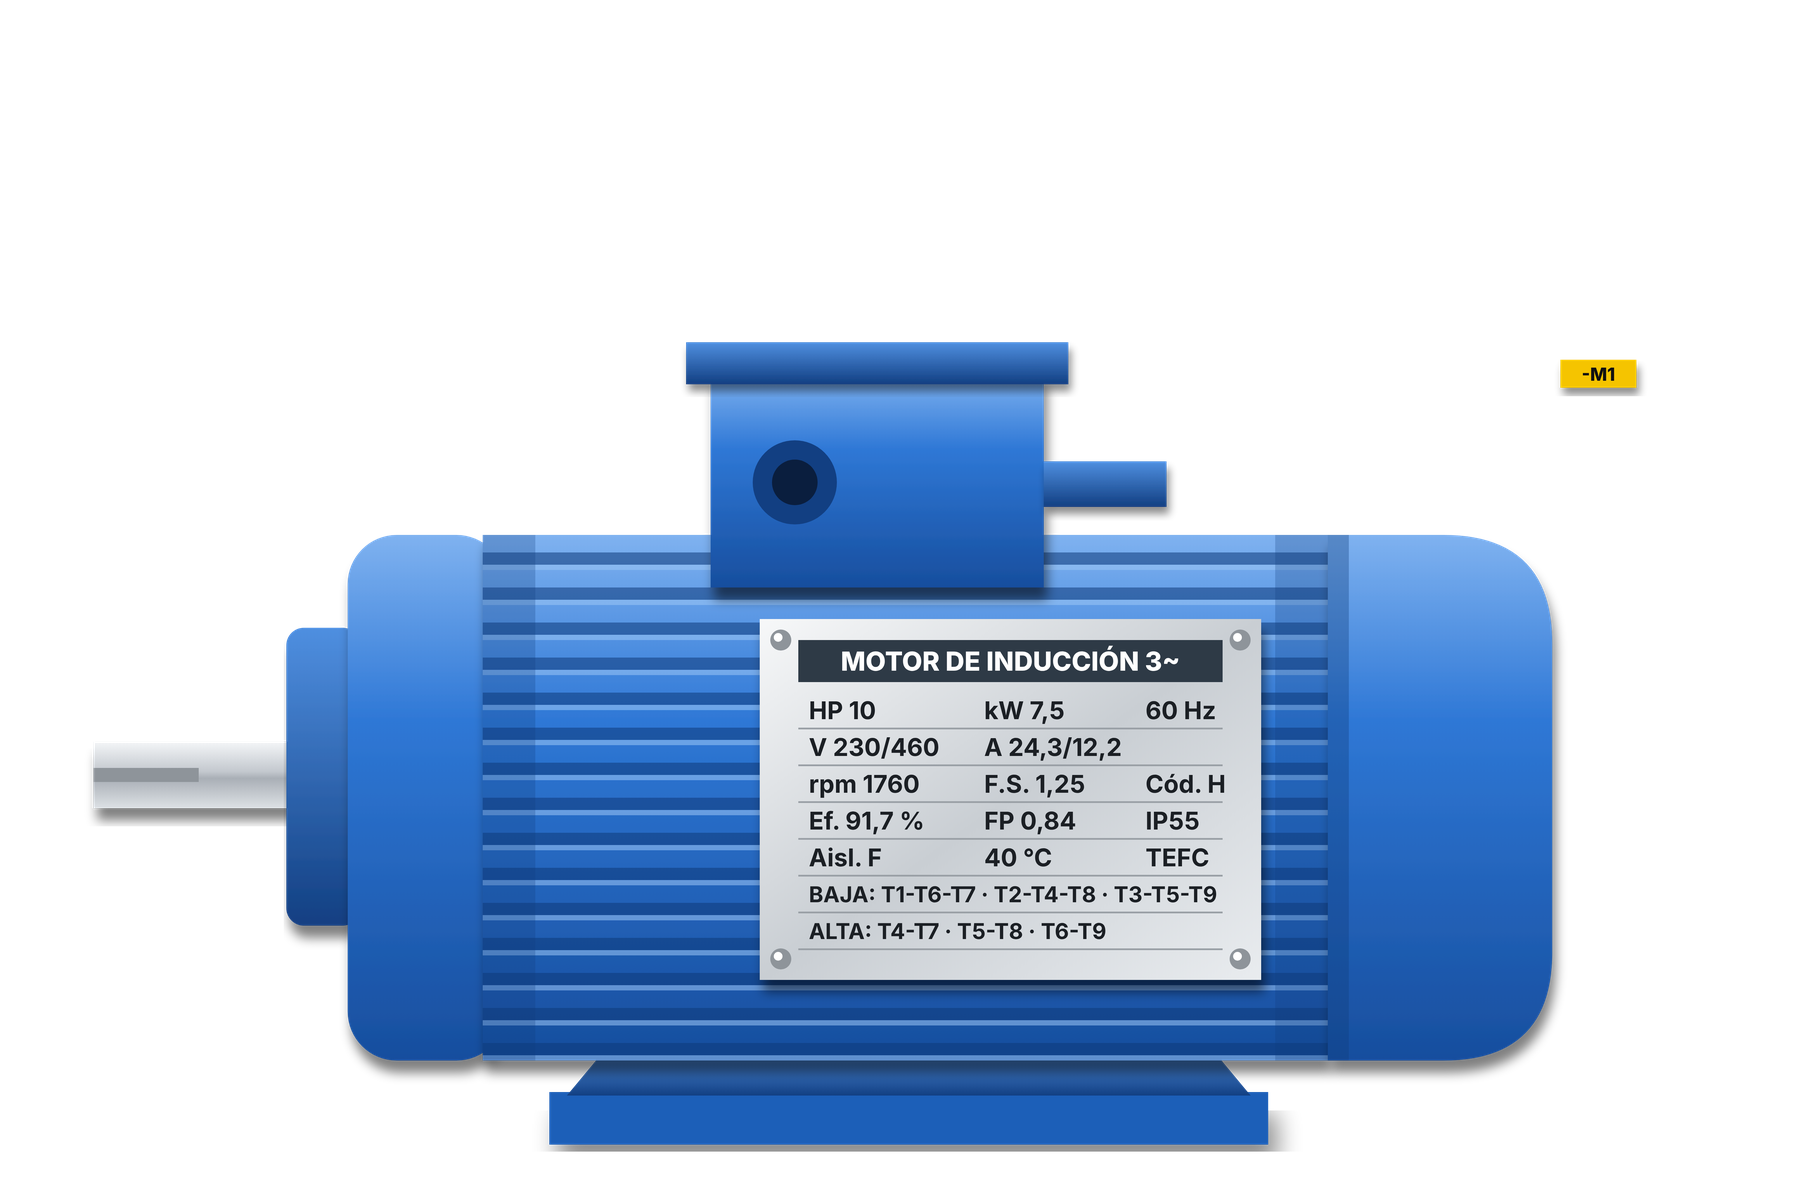
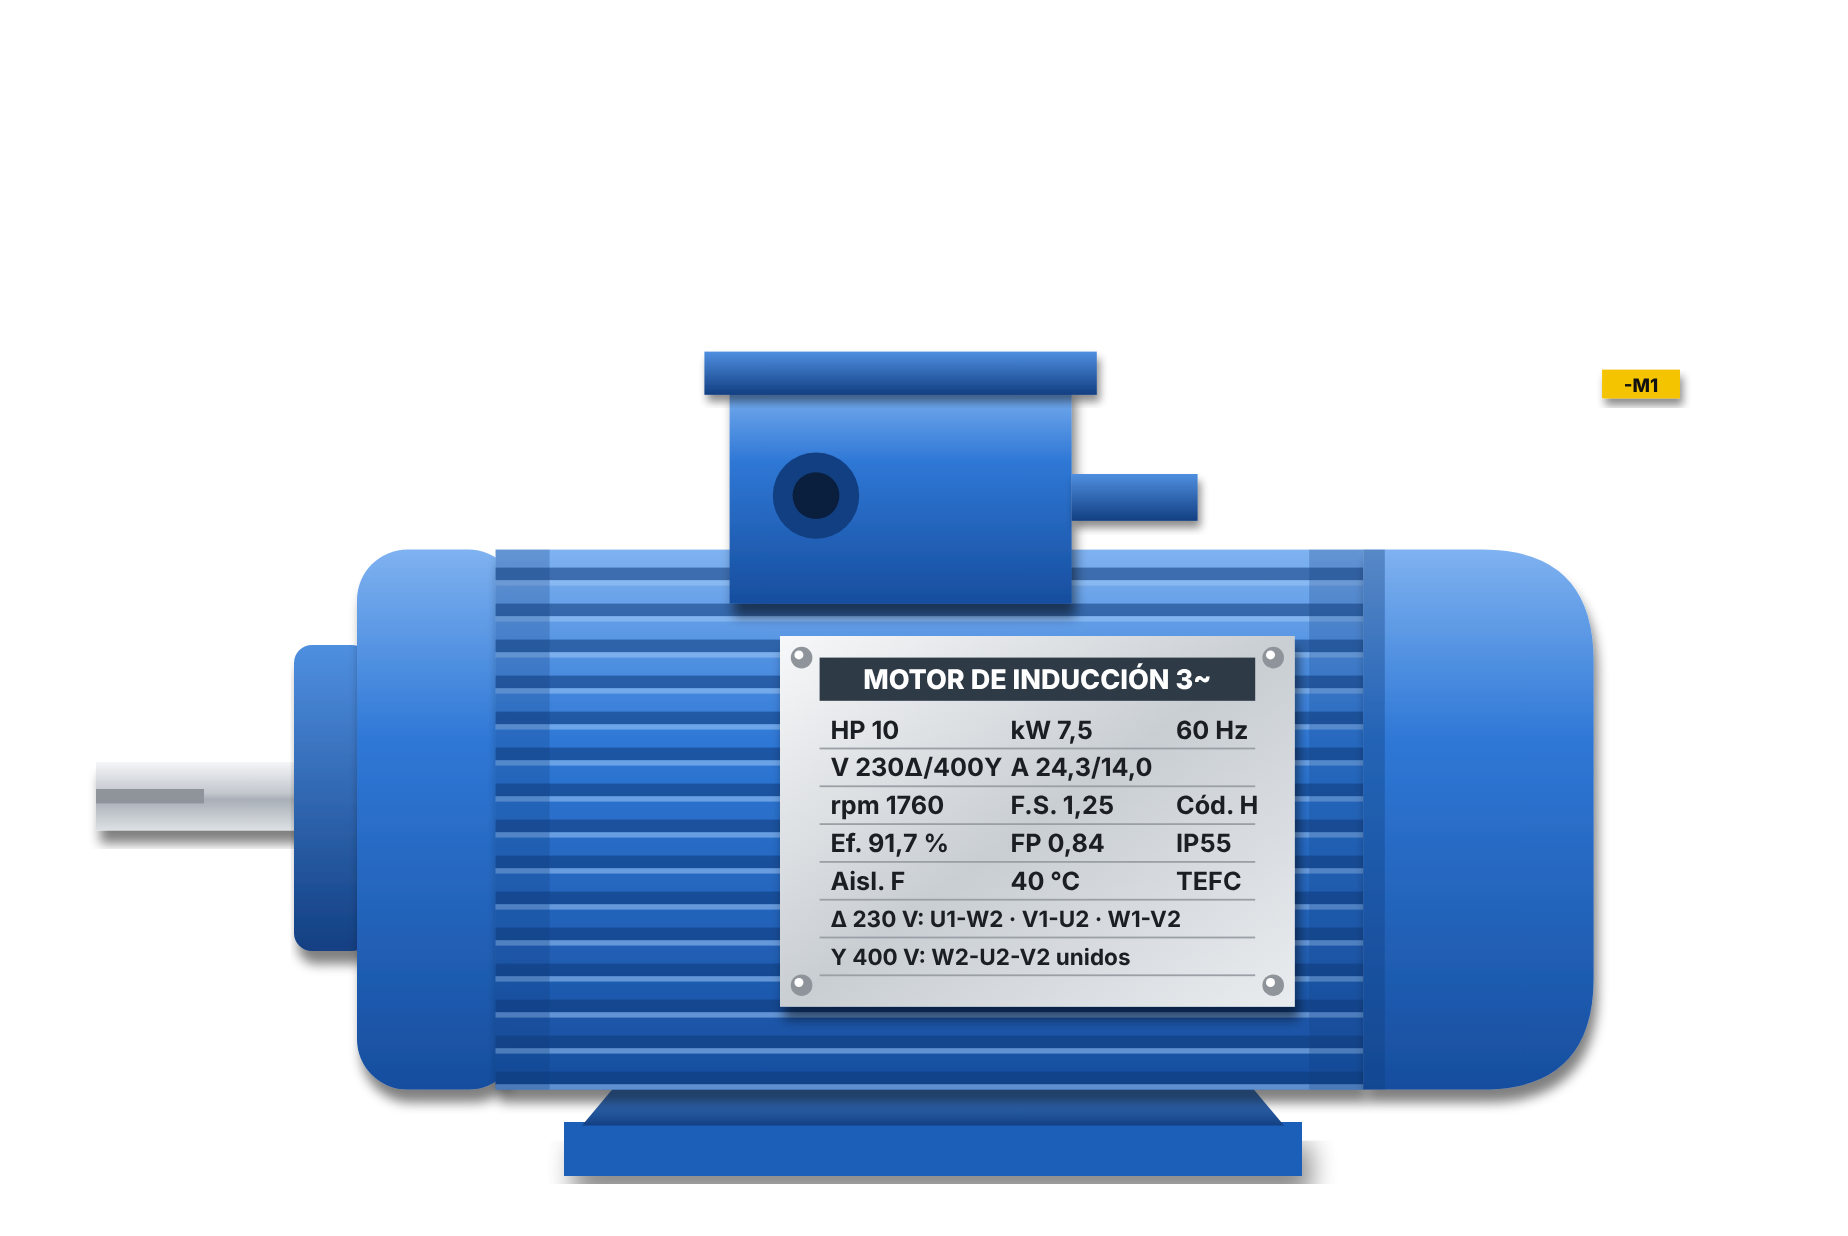
H01: placa del motor IEC Δ230/Y400 (6 bornes) solo para este video; portada
Claude-Session: https://claude.ai/code/session_01PXbN6AjaUdwQ9uVhc3uYbs

diff --git a/lib/svgref.py b/lib/svgref.py
@@ -664,7 +664,7 @@ def flotador(ref="S5", alto_mm=150.0):
 
 
 # ============================================================ MOTOR (referencia del usuario: vista lateral con placa plateada al frente)
-def motor(ref="M1", ancho_mm=300.0):
+def motor(ref="M1", ancho_mm=300.0, placa="nema"):
     """Motor trifásico TEFC visto de lado: eje, tapa, carcasa con aletas, ventilador, caja de bornes arriba, patas.
     La placa de características (plateada) va en el costado, con los datos reales del motor del caso base."""
     Wp, Hp = 1000, 660
@@ -697,6 +697,10 @@ def motor(ref="M1", ancho_mm=300.0):
     filas = [("HP 10", "kW 7,5", "60 Hz"), ("V 230/460", "A 24,3/12,2", ""), ("rpm 1760", "F.S. 1,25", "Cód. H"),
              ("Ef. 91,7 %", "FP 0,84", "IP55"), ("Aisl. F", "40 °C", "TEFC"), ("BAJA: T1-T6-T7 · T2-T4-T8 · T3-T5-T9", "", ""),
              ("ALTA: T4-T7 · T5-T8 · T6-T9", "", "")]
+    if placa == "iec":   # misma potencia, caja IEC de 6 bornes (Δ 230 V / Y 400 V)
+        filas = [("HP 10", "kW 7,5", "60 Hz"), ("V 230Δ/400Y", "A 24,3/14,0", ""), ("rpm 1760", "F.S. 1,25", "Cód. H"),
+                 ("Ef. 91,7 %", "FP 0,84", "IP55"), ("Aisl. F", "40 °C", "TEFC"), ("Δ 230 V: U1-W2 · V1-U2 · W1-V2", "", ""),
+                 ("Y 400 V: W2-U2-V2 unidos", "", "")]
     for k, f in enumerate(filas):
         y = 392 + k * 21
         if f[1]:
